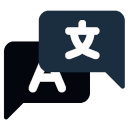
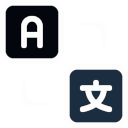
Modificação de icones da aplicação; -Adição da função de troca de idioma

diff --git a/main.js b/main.js
@@ -1,6 +1,7 @@
 import {countries} from "./countries.js";
 
 const textareaInput = document.getElementById("text");
+const flechaDupla = document.querySelector(".doubleArrow");
 const select = document.querySelectorAll(".langSelector");
 const flecha = document.getElementById("arrow");
 var translationBox = false;
@@ -13,6 +14,7 @@ textareaInput.addEventListener("click", alteraBotao);
 textareaInput.addEventListener("focus", alteraBotao);
 textareaInput.addEventListener("keyup", alteraBotao);
 textareaInput.addEventListener("mouseover", alteraBotao);
+flechaDupla.addEventListener("click", trocaIdioma);
 
 select.forEach(selectButton => {
 let tempLang = [];
@@ -29,19 +31,24 @@ let tempLang = [];
         option.innerHTML = conteudo;
     })
 })
+const langInicial = document.getElementById("initialLang");
+langInicial.value = savedInitialLang;
+const langDestino = document.getElementById("finalLang")
+langDestino.value = savedFinalLang;
 
-document.getElementById("initialLang").value = savedInitialLang;
-document.getElementById("finalLang").value = savedFinalLang;
+console.log(langInicial.value);
+console.log(langDestino.value);
 
 flecha.addEventListener("click", function() {
-    const langInicial = document.getElementById("initialLang").value;
-    const langDestino = document.getElementById("finalLang").value;
+
+    let langInicialTemporaria = langInicial.value;
+    let langDestinoTemporaria = langDestino.value;
     const text = document.getElementById("text").value;
     const div = document.querySelector("#translation");
 
-    localStorage.setItem("savedInitialLang", JSON.stringify(langInicial));
-    localStorage.setItem("savedFinalLang", JSON.stringify(langDestino));
-    fetch(`https://api.mymemory.translated.net/get?q=${text}&langpair=${langInicial}|${langDestino}`)
+    localStorage.setItem("savedInitialLang", JSON.stringify(langInicialTemporaria));
+    localStorage.setItem("savedFinalLang", JSON.stringify(langDestinoTemporaria));
+    fetch(`https://api.mymemory.translated.net/get?q=${text}&langpair=${langInicialTemporaria}|${langDestinoTemporaria}`)
     .then(response => response.json()) 
     
     .then(data => {
@@ -71,4 +78,16 @@ function alteraBotao() {
    } else {
    flecha.classList.remove("arrowActived");
    }
+}
+
+function trocaIdioma() {
+    let langInicialTemporaria = langInicial.value;
+    let langDestinoTemporaria = langDestino.value;
+
+    langInicial.value = langDestinoTemporaria;
+    langDestino.value = langInicialTemporaria;
+
+    localStorage.setItem("savedInitialLang", JSON.stringify(langDestinoTemporaria));
+    localStorage.setItem("savedFinalLang", JSON.stringify(langInicialTemporaria))
+console.log("click");
 }
